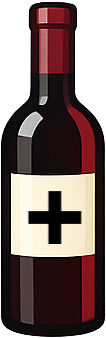
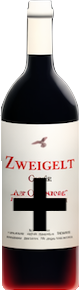
release v1.0.0: sommelier tool_use, header tap feedback
- Sommelier now uses Claude tool_use with forced tool_choice instead of
  free-text JSON output. Eliminates JSON.parse failures when producer or
  wine names contain apostrophes (e.g. Domaine d'Auvenay, L'Étoile).
- Drop the "include at least 2 of each type" instruction from the
  sommelier prompt. Querschläger requirement preserved.
- Add red border-wine ring to the *Add wine* and *Settings* header
  buttons via active: variant, matching the type-filter pattern.
  Visible feedback for screen recordings.
- Refresh the bottle-plus icon.

Bumps to 1.0.0 — original scope from docs/vision.md is feature-complete.

diff --git a/app/src/lib/sommelier/claude.test.ts b/app/src/lib/sommelier/claude.test.ts
@@ -52,6 +52,14 @@ beforeEach(() => {
 	vi.restoreAllMocks()
 })
 
+function toolUseResponse(input: unknown) {
+	return new Response(
+		JSON.stringify({
+			content: [{ type: 'tool_use', name: 'provide_recommendations', input }]
+		})
+	)
+}
+
 describe('runSommelierQuery', () => {
 	it('sends only in-stock wines to the API', async () => {
 		const wines = [
@@ -60,13 +68,7 @@ describe('runSommelierQuery', () => {
 			makeWine({ bottles: 1, name: 'Last One' })
 		]
 
-		const fetchSpy = vi.spyOn(globalThis, 'fetch').mockResolvedValue(
-			new Response(
-				JSON.stringify({
-					content: [{ type: 'text', text: JSON.stringify(mockResponse) }]
-				})
-			)
-		)
+		const fetchSpy = vi.spyOn(globalThis, 'fetch').mockResolvedValue(toolUseResponse(mockResponse))
 
 		await runSommelierQuery('pasta', wines, 'test-key')
 
@@ -77,20 +79,35 @@ describe('runSommelierQuery', () => {
 		expect(userMessage).not.toContain('Empty')
 	})
 
-	it('parses a valid sommelier response', async () => {
-		vi.spyOn(globalThis, 'fetch').mockResolvedValue(
-			new Response(
-				JSON.stringify({
-					content: [{ type: 'text', text: JSON.stringify(mockResponse) }]
-				})
-			)
-		)
+	it('parses a tool_use sommelier response', async () => {
+		vi.spyOn(globalThis, 'fetch').mockResolvedValue(toolUseResponse(mockResponse))
 
 		const result = await runSommelierQuery('steak', [makeWine()], 'test-key')
 		expect(result.recommendations).toHaveLength(3)
 		expect(result.recommendations[0].producer).toBe('Weingut Keller')
 		expect(result.recommendations[0].drinkNow).toBe(true)
 		expect(result.recommendations[2].querschlaeger).toBe(true)
+	})
+
+	it('parses tool_use input with apostrophes in names', async () => {
+		vi.spyOn(globalThis, 'fetch').mockResolvedValue(
+			toolUseResponse({
+				recommendations: [
+					{
+						producer: "Domaine d'Auvenay",
+						name: "L'Étoile",
+						vintage: '2018',
+						reason: "Crisp, focused — perfect for the dish's richness",
+						querschlaeger: false,
+						drinkNow: true
+					}
+				]
+			})
+		)
+
+		const result = await runSommelierQuery('coq au vin', [makeWine()], 'test-key')
+		expect(result.recommendations[0].producer).toBe("Domaine d'Auvenay")
+		expect(result.recommendations[0].name).toBe("L'Étoile")
 	})
 
 	it('throws on API error', async () => {
@@ -101,7 +118,7 @@ describe('runSommelierQuery', () => {
 		)
 	})
 
-	it('throws when response has no valid JSON', async () => {
+	it('throws when response has no tool_use block', async () => {
 		vi.spyOn(globalThis, 'fetch').mockResolvedValue(
 			new Response(
 				JSON.stringify({
@@ -115,14 +132,8 @@ describe('runSommelierQuery', () => {
 		)
 	})
 
-	it('sends request with correct headers and model', async () => {
-		const fetchSpy = vi.spyOn(globalThis, 'fetch').mockResolvedValue(
-			new Response(
-				JSON.stringify({
-					content: [{ type: 'text', text: JSON.stringify(mockResponse) }]
-				})
-			)
-		)
+	it('sends request with correct headers, model, and forced tool choice', async () => {
+		const fetchSpy = vi.spyOn(globalThis, 'fetch').mockResolvedValue(toolUseResponse(mockResponse))
 
 		await runSommelierQuery('salad', [makeWine()], 'my-api-key')
 
@@ -132,5 +143,7 @@ describe('runSommelierQuery', () => {
 		expect(headers['x-api-key']).toBe('my-api-key')
 		const body = JSON.parse(opts!.body as string)
 		expect(body.model).toBe('claude-opus-4-6')
+		expect(body.tool_choice).toEqual({ type: 'tool', name: 'provide_recommendations' })
+		expect(body.tools[0].name).toBe('provide_recommendations')
 	})
 })

diff --git a/app/src/lib/sommelier/claude.ts b/app/src/lib/sommelier/claude.ts
@@ -22,13 +22,40 @@ The user will describe a dish or food they want to pair with wine. You will also
 
 Your task:
 1. First, determine which wine type(s) classically pair with the described dish using traditional sommelier principles (e.g. white or rosé with poultry and fish, red with red meat and hearty stews, sparkling as a versatile aperitif pairing). Do not default to red — let the dish guide the type.
-2. Recommend up to 10 wines from the provided cellar, ordered by how well they pair with the dish. Prioritize the classically matching type(s), but include at least 2 of each type available in the cellar (red, white, rosé, sparkling) to offer variety. Dessert wines may be included when they genuinely complement the dish.
-3. Among wines that pair equally well, use the drinkability window as a tiebreaker: prefer wines at or near their ideal drinking window. Mark those with "drinkNow": true. But a perfect pairing that is slightly young still ranks above a mediocre pairing that is ready to drink.
-4. Include exactly one "Querschläger" — an unconventional, unexpected choice that could work surprisingly well. Place it somewhere in the middle of the list (not position 1 or 2). Mark it with "querschlaeger": true.
+2. Recommend up to 10 wines from the provided cellar, ordered by how well they pair with the dish. Dessert wines may be included when they genuinely complement the dish.
+3. Among wines that pair equally well, use the drinkability window as a tiebreaker: prefer wines at or near their ideal drinking window. Mark those with drinkNow=true. But a perfect pairing that is slightly young still ranks above a mediocre pairing that is ready to drink.
+4. Include exactly one "Querschläger" — an unconventional, unexpected choice that could work surprisingly well. Place it somewhere in the middle of the list (not position 1 or 2). Mark it with querschlaeger=true.
 5. For each recommendation, provide a concise one-line reason explaining why it pairs well.
 
-Reply with ONLY valid JSON in this format:
-{"recommendations":[{"producer":"...","name":"...","vintage":"...","reason":"...","querschlaeger":false,"drinkNow":false}]}`
+Use the provide_recommendations tool to return the result.`
+
+const TOOL_NAME = 'provide_recommendations'
+
+const TOOL = {
+	name: TOOL_NAME,
+	description: 'Return the ranked list of wine pairing recommendations from the cellar.',
+	input_schema: {
+		type: 'object',
+		properties: {
+			recommendations: {
+				type: 'array',
+				items: {
+					type: 'object',
+					properties: {
+						producer: { type: 'string' },
+						name: { type: 'string' },
+						vintage: { type: 'string' },
+						reason: { type: 'string' },
+						querschlaeger: { type: 'boolean' },
+						drinkNow: { type: 'boolean' }
+					},
+					required: ['producer', 'name', 'vintage', 'reason', 'querschlaeger', 'drinkNow']
+				}
+			}
+		},
+		required: ['recommendations']
+	}
+}
 
 function buildWineList(wines: WineEntry[]): string {
 	return wines
@@ -59,6 +86,8 @@ export async function runSommelierQuery(
 			model: MODEL,
 			max_tokens: 1024,
 			system: SYSTEM,
+			tools: [TOOL],
+			tool_choice: { type: 'tool', name: TOOL_NAME },
 			messages: [
 				{
 					role: 'user',
@@ -73,16 +102,13 @@ export async function runSommelierQuery(
 		throw new Error(`Claude API error ${res.status}: ${body}`)
 	}
 
-	const json = await res.json()
-	const rawText: string = json.content?.[0]?.text ?? ''
-	const match = rawText.match(/\{[\s\S]*\}/)
-	if (!match) {
-		throw new Error('Could not parse sommelier response')
+	const json = (await res.json()) as {
+		content?: Array<{ type?: string; name?: string; input?: unknown }>
 	}
-
-	const parsed = JSON.parse(match[0])
-	if (!Array.isArray(parsed.recommendations)) {
-		throw new Error('Invalid sommelier response format')
+	const block = json.content?.find((c) => c.type === 'tool_use' && c.name === TOOL_NAME)
+	const parsed = block?.input as { recommendations?: unknown } | undefined
+	if (!parsed || !Array.isArray(parsed.recommendations)) {
+		throw new Error('Could not parse sommelier response')
 	}
 
 	return {

diff --git a/app/src/routes/+page.svelte b/app/src/routes/+page.svelte
@@ -216,7 +216,7 @@
 				{/if}
 				<a
 					href={resolve('/settings')}
-					class="flex items-center justify-center w-10 h-10 text-gray-400"
+					class="flex items-center justify-center w-10 h-10 rounded-full border-2 border-transparent text-gray-400 active:border-wine"
 					aria-label="Settings"
 				>
 					<svg
@@ -237,7 +237,7 @@
 				</a>
 				<a
 					href={resolve('/wine/new')}
-					class="flex items-center justify-center w-10 h-10"
+					class="flex items-center justify-center w-10 h-10 rounded-full border-2 border-transparent active:border-wine"
 					aria-label="Add wine"
 				>
 					<img src="/bottle-plus.png" alt="" class="w-8 h-8 object-contain" />

diff --git a/docs/plan/v1.0.0-sommelier-tool-use-tap-feedback.md b/docs/plan/v1.0.0-sommelier-tool-use-tap-feedback.md
@@ -1,0 +1,100 @@
+# v1.0.0 — Sommelier tool-use & header tap feedback
+
+## Overview
+
+Two small changes, version-bumped to 1.0.0 to mark the app as feature-complete
+for the original scope.
+
+1. **Sommelier robustness** — replace text-based JSON output with Claude's
+   `tool_use` so apostrophes / smart quotes / mixed delimiters in producer or
+   wine names can no longer break parsing.
+2. **Header tap feedback** — give the *Add wine* and *Settings* header buttons
+   a red `border-wine` ring while pressed, matching the existing type-filter
+   pattern. Visible feedback for screen recordings.
+
+Also drops the "include at least 2 of each type available in the cellar"
+instruction from the sommelier prompt; the Querschläger requirement stays.
+
+---
+
+## Feature 1: Sommelier tool-use
+
+### Problem
+
+The sommelier occasionally fails with a JSON parse error such as
+`expected '}' but got "'"` when the model's response mixes single and double
+quotes around values that contain apostrophes (e.g. `Domaine d'Auvenay`,
+`L'Étoile`). The previous implementation regex-extracted the first
+`{...}` block from the text response and ran `JSON.parse` on it.
+
+### Approach
+
+Use the Anthropic Messages API tool-use feature. Define a single tool
+`provide_recommendations` whose `input_schema` is the recommendations shape,
+and force `tool_choice: { type: 'tool', name: 'provide_recommendations' }`.
+The API then returns the data already parsed in `content[].input` — no regex,
+no `JSON.parse`, no quoting drift possible.
+
+### Implementation
+
+- `app/src/lib/sommelier/claude.ts`:
+  - Add `TOOL` constant describing the input schema (recommendations array
+    with producer/name/vintage/reason/querschlaeger/drinkNow).
+  - Send `tools: [TOOL]` and `tool_choice` on the request.
+  - Replace text-extract + `JSON.parse` with a `find` for the `tool_use`
+    block and read `block.input`.
+  - Drop the JSON-format example from the system prompt; replace with
+    "Use the provide_recommendations tool to return the result."
+  - Drop the "include at least 2 of each type" line from the prompt.
+
+- `app/src/lib/sommelier/claude.test.ts`:
+  - Mock responses use `{ type: 'tool_use', name: 'provide_recommendations',
+    input: ... }`.
+  - Add a regression test for apostrophes in producer / name.
+  - Assert `tool_choice` is forced on the request.
+
+### Acceptance criteria
+
+- [x] Sommelier responses parse cleanly even when names contain apostrophes
+- [x] No `JSON.parse` on free-form model text anywhere in the sommelier path
+- [x] All existing sommelier tests pass; new apostrophe regression test passes
+- [x] Querschläger requirement preserved
+- [x] No type-variety constraint in the prompt
+
+---
+
+## Feature 2: Header tap feedback
+
+### Problem
+
+When recording the iPhone screen for a blog post, taps on header buttons
+(*Add wine*, *Settings*) leave no visible trace. The bottle-type filters
+already show a red ring when active; the header buttons did not.
+
+### Approach
+
+Match the type-filter pattern: `rounded-full border-2 border-transparent`
+plus an `active:border-wine` variant. The transparent baseline keeps layout
+stable; the red ring shows for the duration of the tap.
+
+### Implementation
+
+- `app/src/routes/+page.svelte` — add the four classes to the *Add wine*
+  `<a>` and the *Settings* `<a>` in the header.
+
+### Acceptance criteria
+
+- [x] Tapping *Add wine* shows a red ring before navigation
+- [x] Tapping *Settings* shows a red ring before navigation
+- [x] No layout shift when ring appears
+- [x] No regression to the type-filter ring styling
+
+---
+
+## Files modified
+
+- `app/package.json` — bump to 1.0.0
+- `app/src/lib/sommelier/claude.ts`
+- `app/src/lib/sommelier/claude.test.ts`
+- `app/src/routes/+page.svelte`
+- `docs/roadmap.md` (add v1.0.0 entry)

diff --git a/docs/roadmap.md b/docs/roadmap.md
@@ -148,6 +148,19 @@ Plan: `docs/plan/v0.9.6-onboarding-filter-fix.md`
 
 Plan: `docs/plan/v0.9.10-session-filters-sommelier.md`
 
+## v1.0.0 — Sommelier tool-use & header tap feedback
+
+- Sommelier now uses Claude's tool_use feature instead of free-text JSON
+  output, eliminating parse errors caused by apostrophes / smart quotes /
+  mixed delimiters in producer or wine names
+- Drop the "at least 2 of each type" instruction from the sommelier prompt;
+  Querschläger requirement preserved
+- Add a red `border-wine` ring on the *Add wine* and *Settings* header
+  buttons while pressed, matching the type-filter pattern (visible feedback
+  for screen recordings)
+
+Plan: `docs/plan/v1.0.0-sommelier-tool-use-tap-feedback.md`
+
 ## Future (unscheduled)
 
 - Onboarding: first-run screen when sync is unconfigured, with instructions for